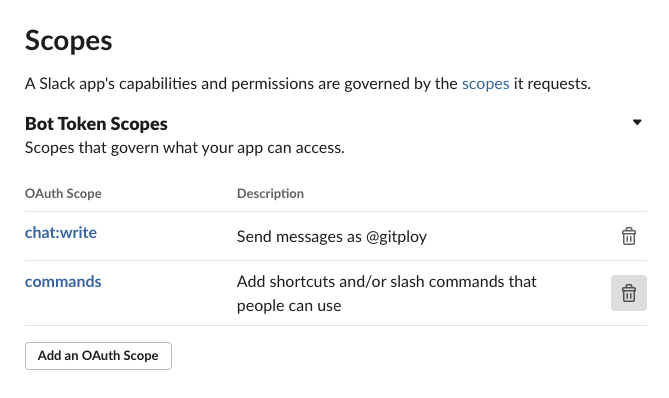
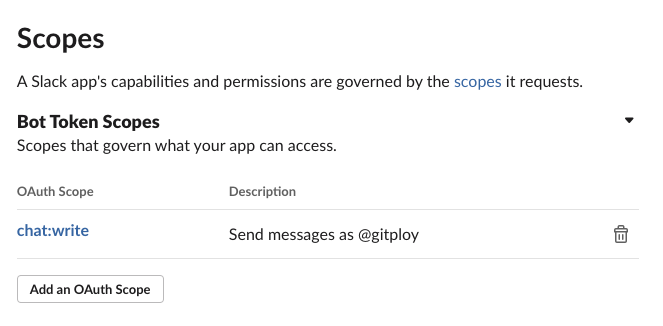
Fix documents for Chatops

diff --git a/docs/tasks/integration.md b/docs/tasks/integration.md
@@ -33,44 +33,20 @@ jobs:
 
 ## Slack
 
-Slack integration provides Chatops (i.e. deploy, rollback) and notification alert for events.
+Slack integration provides notifications for events.
 
 ### Step 1: Create App
 
-Firstly, we have to create [Slack App](https://api.slack.com/apps). Let’s click the Create App button and fill out inputs.
+Firstly, we have to create [Slack App](https://api.slack.com/apps). You should click the Create App button and fill out inputs.
 
 ### Step 2: Configure Permissions
 
-After creating App let’s move to the *OAuth & Permissions* page. On this page, we have to set up *the redirect URLs* and *Bot Token scopes*. Firstly, let’s add a new redirect URL with the `GITPLOY_SERVER_PROTO://GITPLOY_SERVER_HOST/slack/signin` format; secondly, add `chat:write` and `commands` scopes into the Bot Token scopes.
+After creating App, we move to the *OAuth & Permissions* page and set up *the redirect URLs* and *Bot Token scopes*on this page. Firstly, you should add a new redirect URL with the `GITPLOY_SERVER_PROTO://GITPLOY_SERVER_HOST/slack/signin` format; secondly, add `chat:write` scope into the Bot Token scopes.
 
 Figure) Slack Bot Token Scopes
 
 ![Slack Bot Token Sceops](../images/slack-bot-token-scopes.png)
 
-### Step 3: Create Slash Command
+### Step 3: Run Server With App Credentials
 
-To use the slash command, we have to create a new command, `/gitploy`.  Move to the *Slash Commands* page, and fill out the "Create New Command" form like the following: 
-
-* Command: `/gitploy`
-* Request URL: `GITPLOY_SERVER_PROTO://GITPLOY_SERVER_HOST/slack/command`
-* Short Description: `Gitploy command`
-* Use Hint: `[deploy | rollback | help]`
-
-Figure) Slack Create New Command
-
-![Slack New Command](../images/slack-new-command.png)
-
-### Step 4: Configure Interactivity
-
-To enable the interactivity, we have to configure which URL interact with Slack. Move to the *Interactivity & Shortcuts* page, and fill out the "Request URL" with the `GITPLOY_SERVER_PROTO://GITPLOY_SERVER_HOST/slack/interact`
-
-Figure) Slack Interactivity
-
-![Slack Interactivity](../images/slack-interactivity.png)
-
-### Step 5: Run Server With App Credentials
-
-To enable Slack integration, you have to set up these environments when you run the server: `GITPLOY_SLACK_CLIENT_ID`, `GITPLOY_SLACK_CLIENT_SECRET`, and `GITPLOY_SLACK_SIGNING_SECRET`. You can get these credentials from *App Credentials* section of *Basic Information* page. 
-
-On settings page, you can find the button to connect with Slack. Now, you can run the slash command `/gitploy` in Slack.
-
+To enable Slack integration, you have to set up these environments when you run the server: `GITPLOY_SLACK_CLIENT_ID` and `GITPLOY_SLACK_CLIENT_SECRET`. You can get these credentials from *App Credentials* section of *Basic Information* page. 

diff --git a/docs/concepts/notification.md b/docs/concepts/notification.md
@@ -1,0 +1,18 @@
+# Notification
+
+Gitploy notifies users when deployments and reviews are created or updated. Now, Gitploy supports browser notification and Slack.
+
+## Browser
+
+Gitploy provides the browser notification to alert events as default. Almost modern browsers provide [notification API](https://developer.mozilla.org/ko/docs/Web/API/notification), but unfortunately, some browsers are not supported. To avoid browser compatibility, you can replace it with Slack.
+
+*Note that if the notification doesn't work even though your browser provides it, you should check the setting that it is enabled or not.*
+
+
+## Slack
+
+Slack is a popular messaging app for businesses globally. Gitploy supports Slack to notify events of deployments and reviews. You can figure out the Connect button on the settings page after integrating with Slack. Check [the documentation](../tasks/integration.md) for details.
+
+Figure) Slack notification
+
+![Slack Notification](../images/slack-notification.png)
